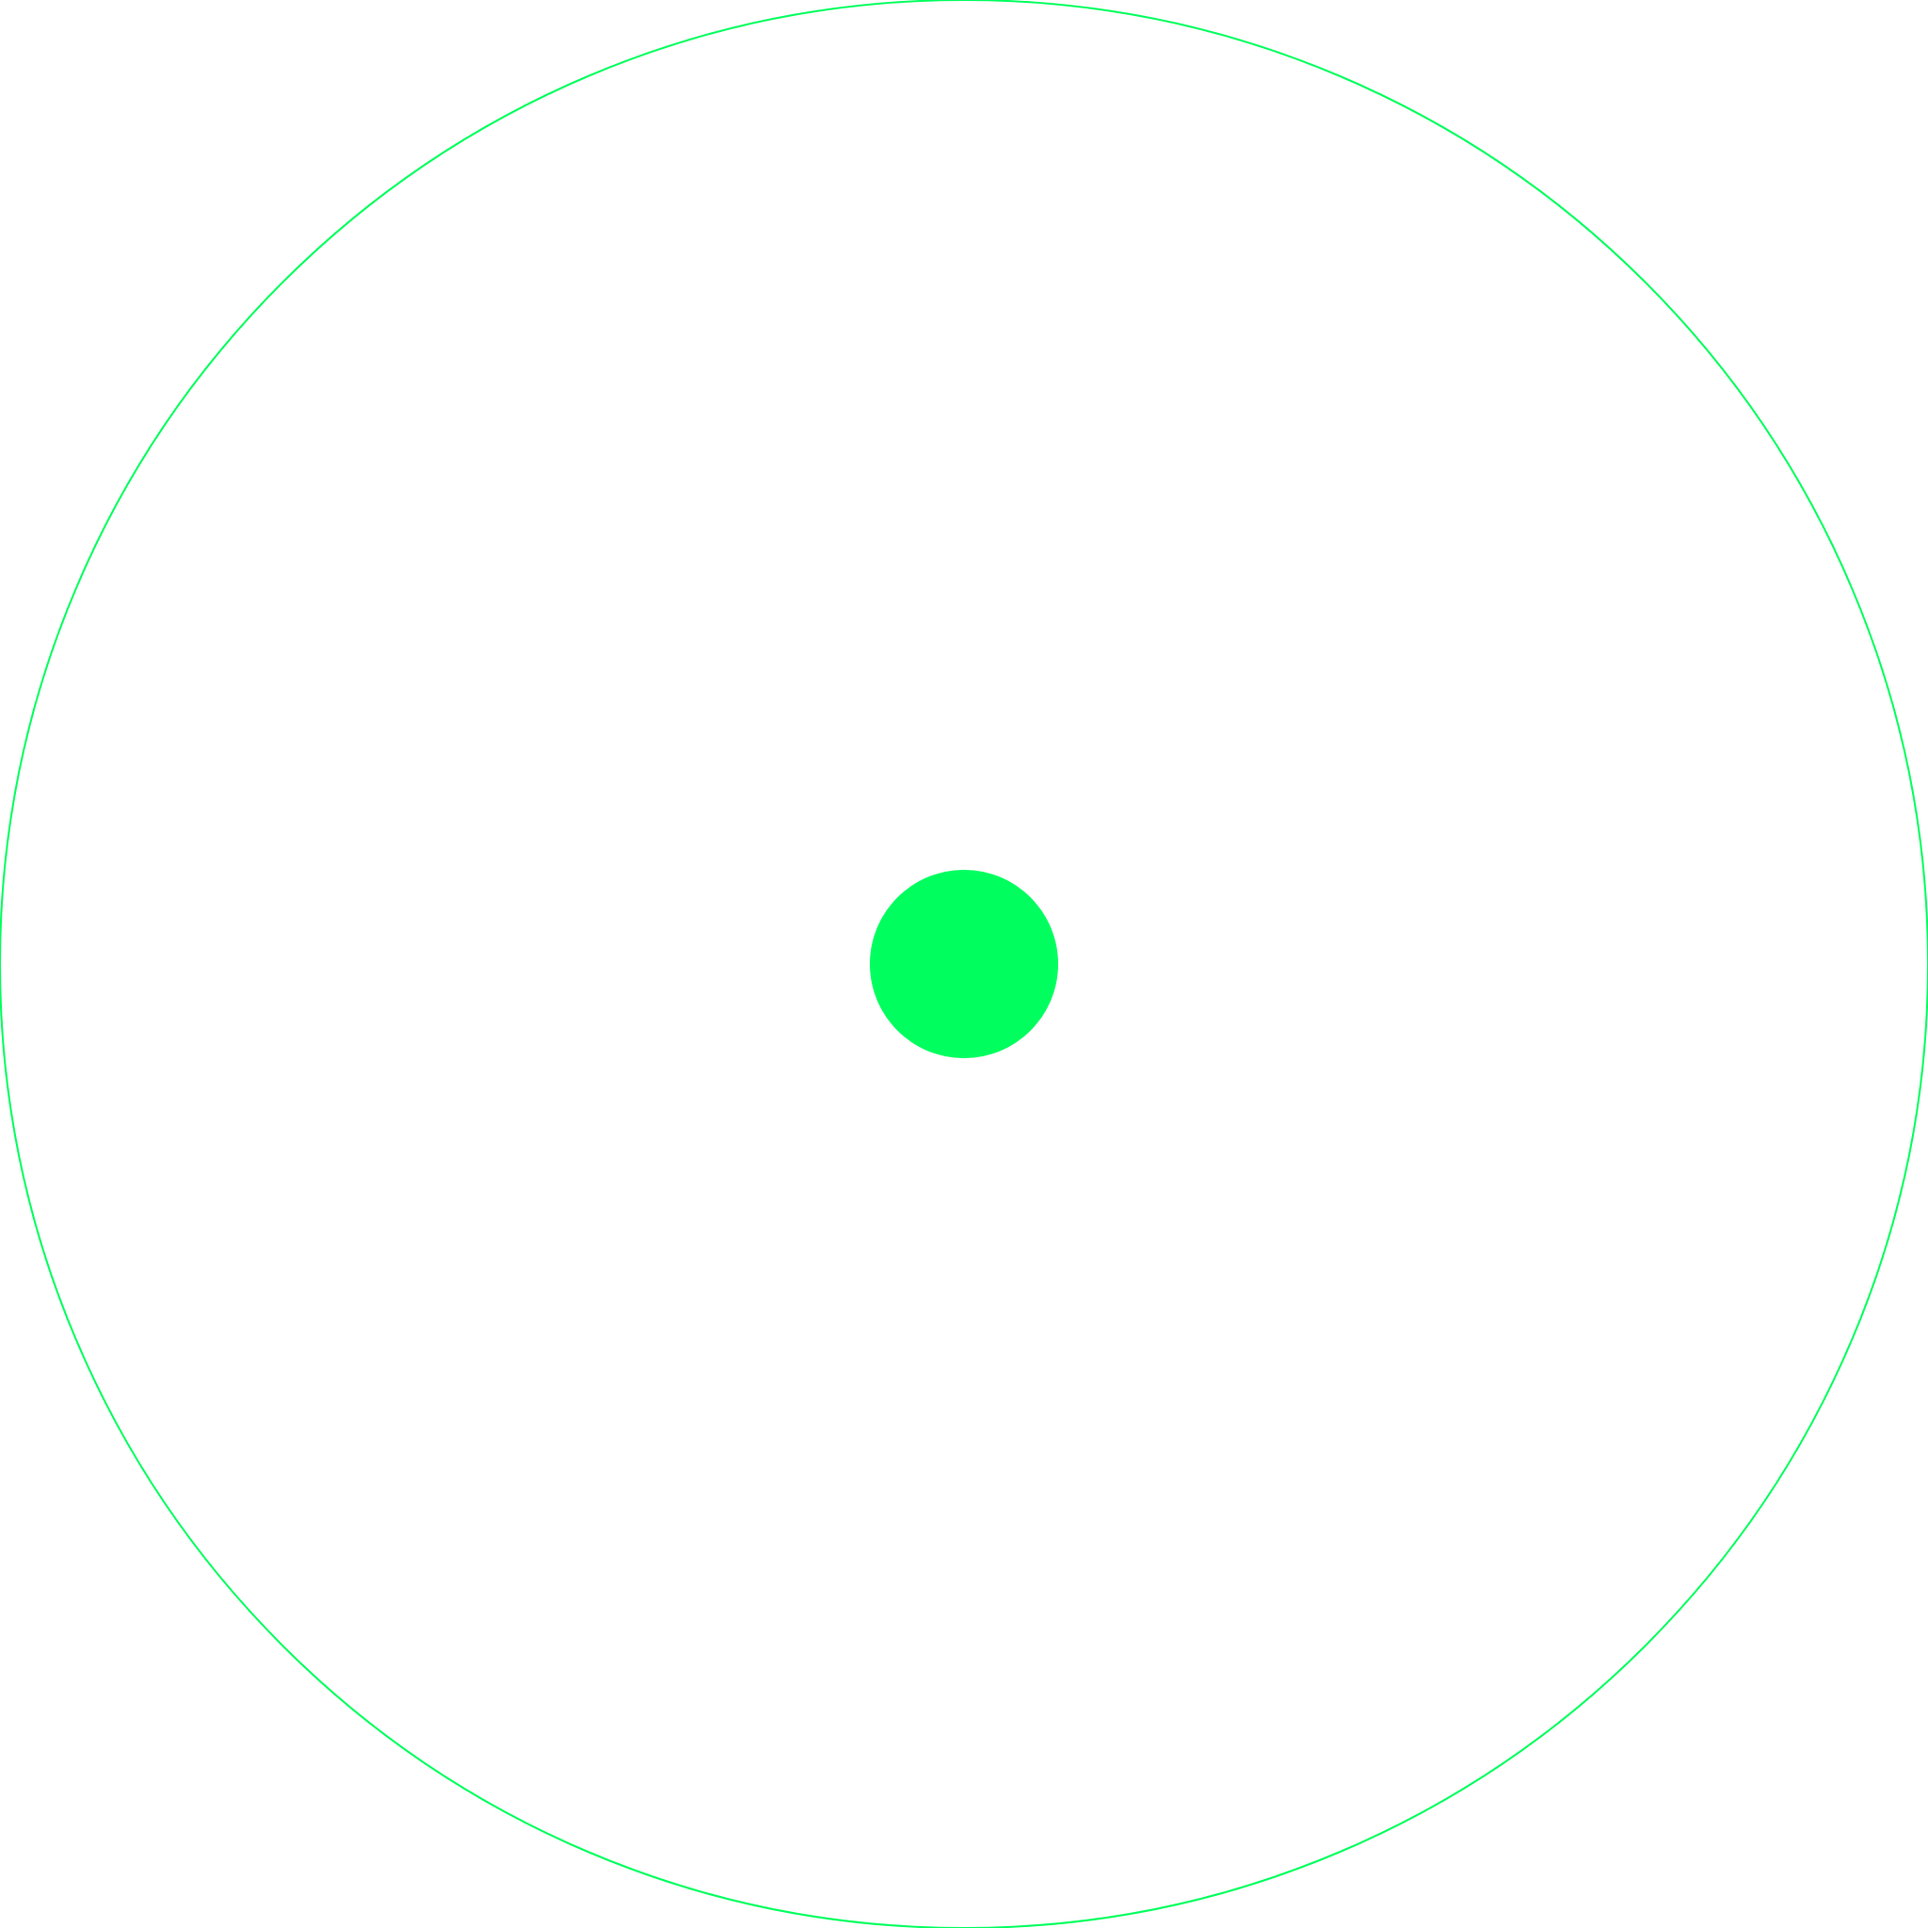
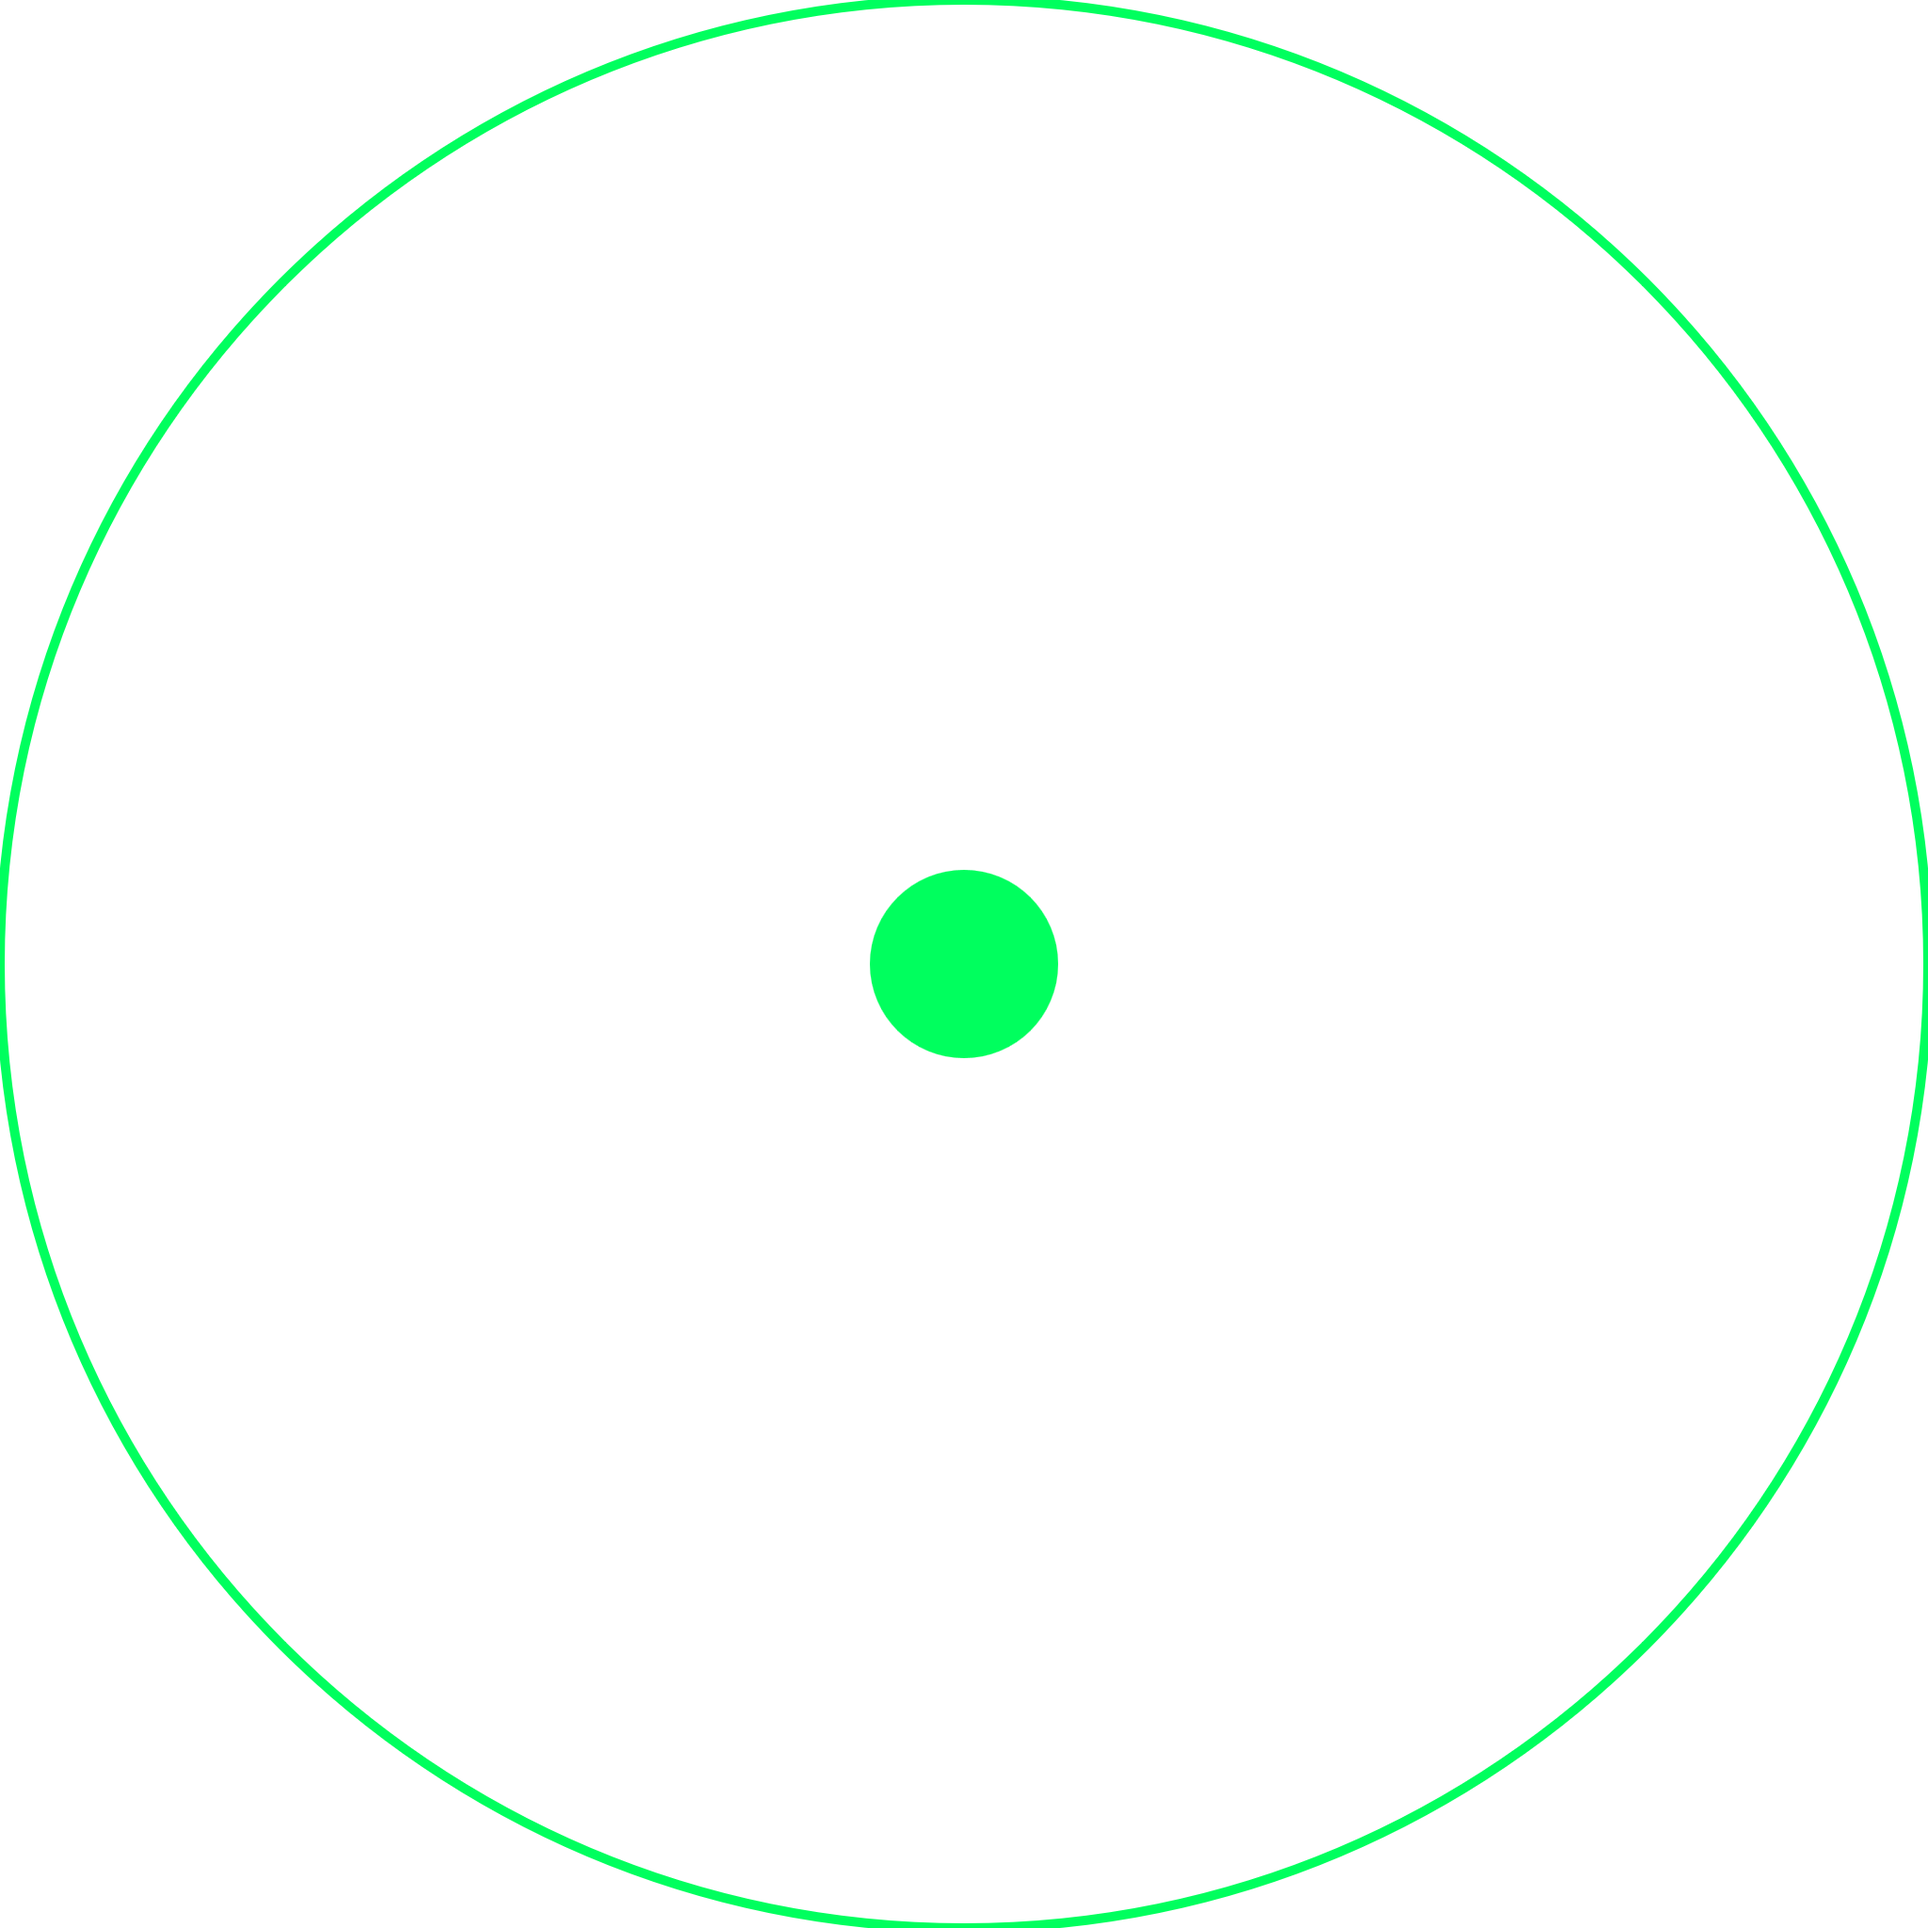
Added Target 2k HD textures, adjusted render code for new textures
due to re-scaling baked in radius of Agents is having small problems with rendering - independent of which render method we use.

diff --git a/src/Simulation.cpp b/src/Simulation.cpp
@@ -112,7 +112,8 @@ int LTexture::getHeight()
 
 Simulation::Simulation()
 {
-    // Dont actually know what this is needed for yet...
+    // Initializes both objects as null, before each is assigned
+	//an SDL object.
     gWindow   = NULL;
     gRenderer = NULL;
     Init();
@@ -180,8 +181,10 @@ void Simulation::renderAgent(Point<int> location, int id)
     SDL_Rect agentSize;
     agentSize.x = location.x();
     agentSize.y = location.y();
-    agentSize.w = this->AgentTexture[id].getWidth();
-    agentSize.h = this->AgentTexture[id].getHeight();
+    //agentSize.w = this->AgentTexture[id].getWidth();
+    //agentSize.h = this->AgentTexture[id].getHeight();
+	agentSize.w = 100;
+	agentSize.h = 100;
     SDL_RenderCopy(gRenderer, this->AgentTexture[id].mTexture, 0, &agentSize);
     SDL_RenderPresent(gRenderer);  // Update screen
 }
@@ -193,8 +196,10 @@ void Simulation::renderTarget(Point<int> location, int id)
     SDL_Rect targetSize;
     targetSize.x = location.x();
     targetSize.y = location.y();
-    targetSize.w = this->TargetTexture[id].getWidth();
-    targetSize.h = this->TargetTexture[id].getHeight();
+    //targetSize.w = this->TargetTexture[id].getWidth();
+    //targetSize.h = this->TargetTexture[id].getHeight();
+	targetSize.w = 10;
+	targetSize.h = 10;
     SDL_RenderCopy(gRenderer, this->TargetTexture[id].mTexture, 0, &targetSize);
     SDL_RenderPresent(gRenderer);  // Update screen
 }
@@ -203,14 +208,22 @@ bool Simulation::loadTextures()
 {
     for (int i = 0; i < 5; ++i) {
         // Load agent texture
-        if (!this->AgentTexture[i].loadFromFile("assets/agentAv2-100x100.png", gRenderer)) {
+       /* if (!this->AgentTexture[i].loadFromFile("assets/agentAv2-100x100.png", gRenderer)) {
             printf("Failed to load Agent texture image!\n");
             return false;
-        }
+        }*/
+		if (!this->AgentTexture[i].loadFromFile("assets/Agent1_HD.png", gRenderer)) {
+			printf("Failed to load Agent texture image!\n");
+			return false;
+		}
         // Load target (A1) texture
-        if (!this->TargetTexture[i].loadFromFile("assets/targetA1-10x10.png", gRenderer)) {
+        /*if (!this->TargetTexture[i].loadFromFile("assets/targetA1-10x10.png", gRenderer)) {
             printf("Failed to load Target A1 texture image!\n");
             return false;
-        }
+        }*/
+		if (!this->TargetTexture[i].loadFromFile("assets/Target1_HD.png", gRenderer)) {
+			printf("Failed to load Target A1 texture image!\n");
+			return false;
+		}
     }
 }
